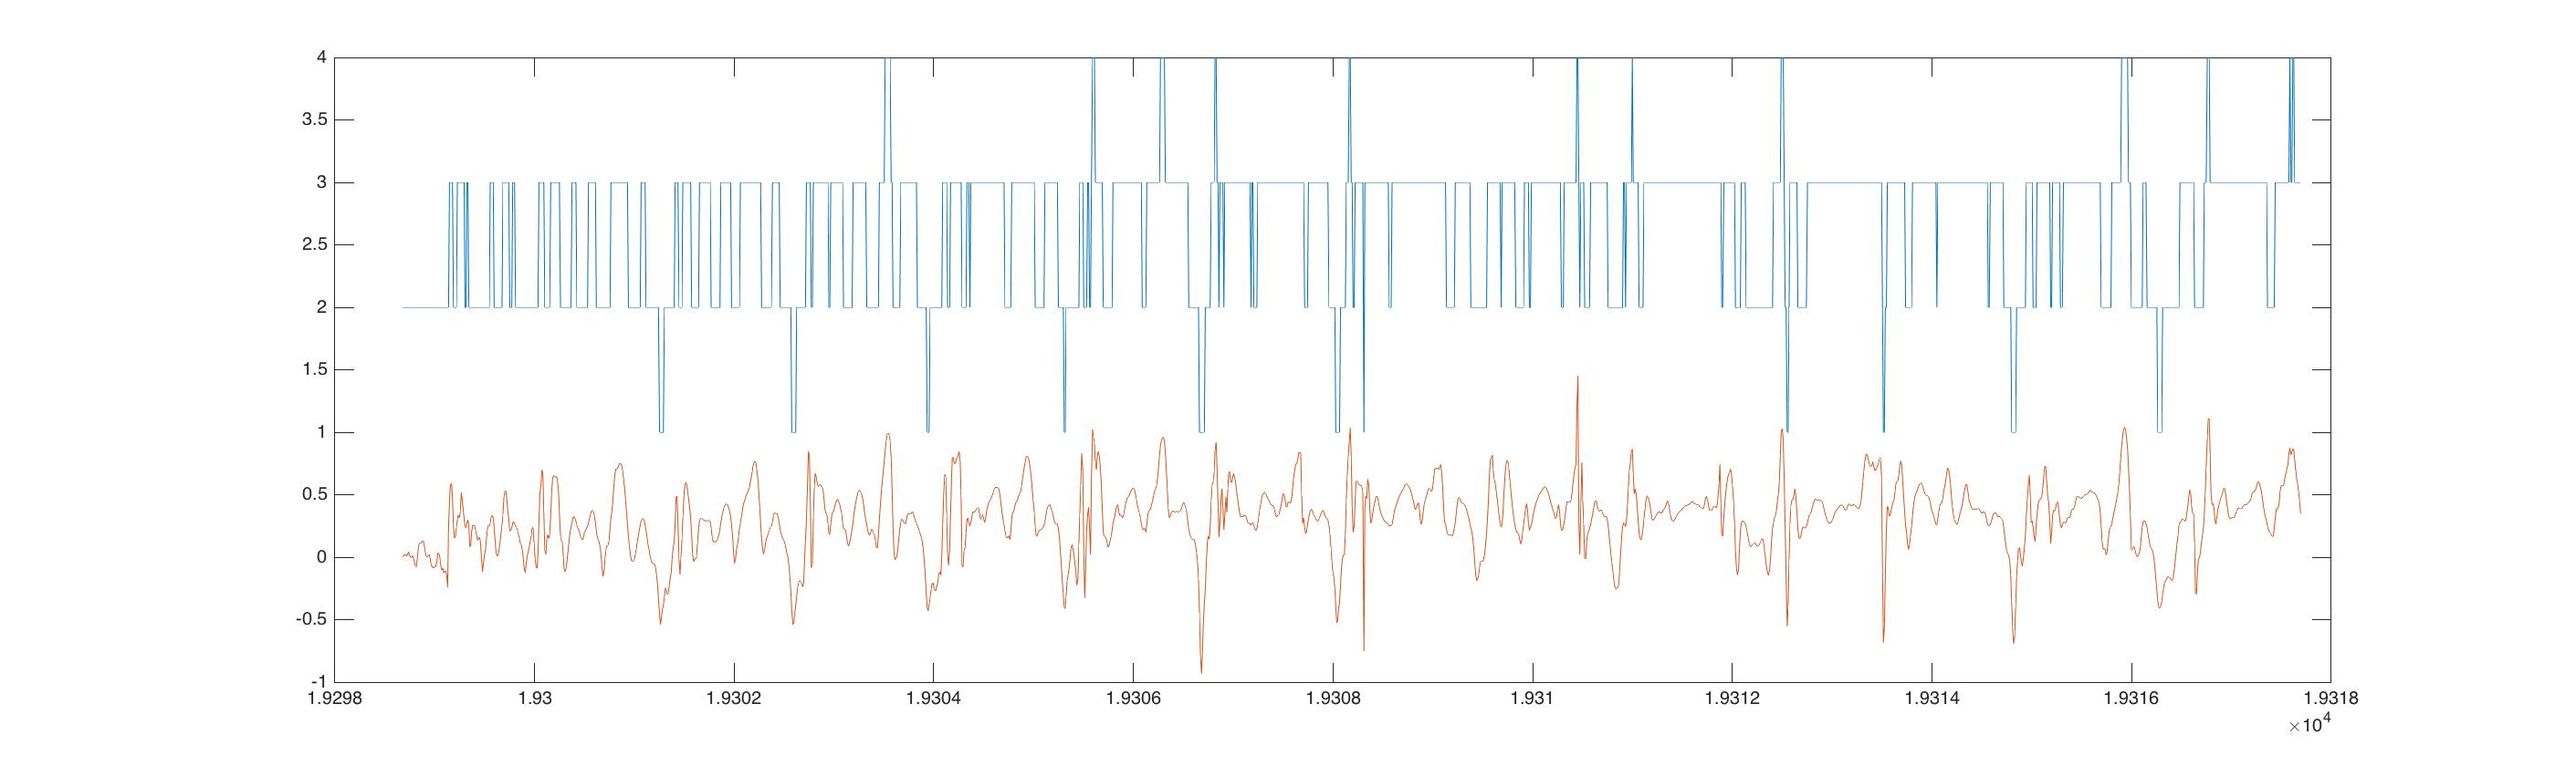
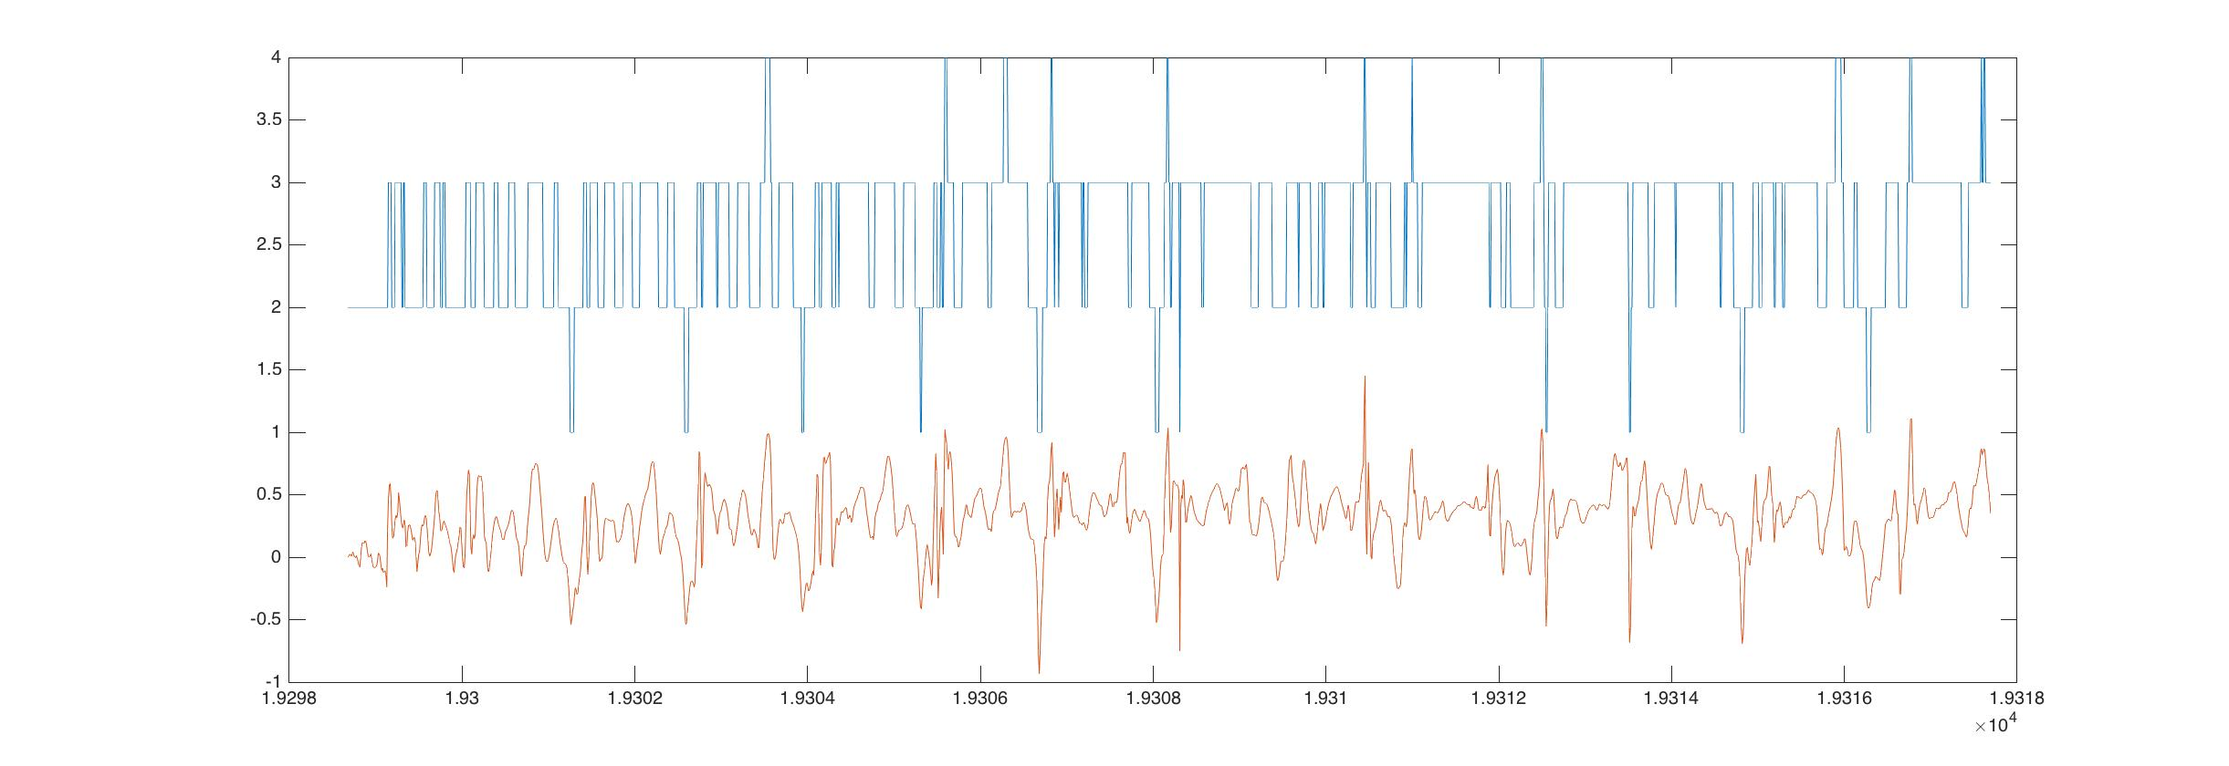
update code

diff --git a/acc_HMM.m b/acc_HMM.m
@@ -21,12 +21,12 @@ pathN = path;
 % loc = 'mocha';
 loc = 'doerlbh';
 
-test_file = 'test_walk_outbound.tmp';
-
 addpath(path);
 addpath([path 'jsonlab-master']);
 % addpath([path 'parameters']);
 % addpath([path 'embeddings']);
+
+test_file = 'test_walk_outbound.tmp';
 
 data = loadjson(test_file,'SimplifyCell',1);
 size = length(data);
@@ -51,7 +51,10 @@ parfor n = 1:size
     s_acc(n) = acc(n,:)*plane1.'/norm(plane1,2);
 end
 
+%% generate observation labels
+
 num_bins = 4;
+
 s_bins = linspace(min(s_acc), max(s_acc), num_bins+1);
 
 parfor t = 1:size
@@ -62,22 +65,62 @@ parfor t = 1:size
     end
 end
 
+%% generate default transition matrix and emission matrix
+
+num_stages = 3;
+default_home_state = 0.95
+
+trGuess = zeros(num_stages,num_stages);
+for j = 1:num_stages
+    trGuess(j,j) = default_home_state;
+    if j == num_stages
+        trGuess(j,1) = 1 - default_home_state;
+    else
+        trGuess(j,j+1) = 1 - default_home_state;
+    end
+end
+
+emitGuess = ones(num_stages,num_bins)/num_bins;
+
+% trGuess =[0.95 0.05 0; 0 0.95 0.05; 0.05 0 0.95];
+% emitGuess = [0.25 0.25 0.25 0.25; 0.25 0.25 0.25 0.25; 0.25 0.25 0.25 0.25];
 
 %% plot obs labels
 
 figure(1);
-plot(time, acc);
-plot(time, s_acc);
+plot(time, acc); hold on
+plot(time, s_acc); hold on
+title(['signal at s = ' num2str(num_stages) ' and b =' num2str(num_bins)]);
+xlabel('t');
+legend('x','y','z','s-acc');
+xc = xlim;
+xl = xc(1)*0.8+xc(2)*0.2;
+yc = ylim;
+yl1 = yc(1)*0.83+yc(2)*0.17;
+yl2 = yc(1)*0.77+yc(2)*0.23;
+% text(xl,yl1,['num stages =' num2str(num_stages)],'FontSize',12);
+% text(xl,yl2,['num bins =' num2str(num_bins)],'FontSize',12);
+filename = ['signal-s-' num2str(num_stages) '-b-' num2str(num_bins) '.png'];
+saveas(gcf, filename,'png');
 
 figure(2);
 plot(time, s_obs); hold on
 plot(time, s_acc); hold on
-
+legend('s-obs','s-acc');
+title(['observation at s = ' num2str(num_stages) ' and b =' num2str(num_bins)]);
+xlabel('t');
+xc = xlim;
+xl = xc(1)*0.8+xc(2)*0.2;
+yc = ylim;
+yl1 = yc(1)*0.83+yc(2)*0.17;
+yl2 = yc(1)*0.77+yc(2)*0.23;
+% text(xl,yl1,['num stages =' num2str(num_stages)],'FontSize',12);
+% text(xl,yl2,['num bins =' num2str(num_bins)],'FontSize',12);
+filename = ['observation-s-' num2str(num_stages) '-b-' num2str(num_bins) '.png'];
+saveas(gcf, filename,'png');
 
 %% train HMM
 
-trGuess =[0.95 0.05 0; 0 0.95 0.05; 0.05 0 0.95]; 
-emitGuess = [0.25 0.25 0.25 0.25; 0.25 0.25 0.25 0.25; 0.25 0.25 0.25 0.25]; 
 [estTr,estEm] = hmmtrain(s_obs,trGuess,emitGuess);
 
 rng(1);
@@ -86,6 +129,19 @@ rng(1);
 figure(3)
 plot(time, s_obs); hold on
 plot(time, s_acc); hold on
-plot(time, states);
+plot(time, states); hold on
+legend('s-obs','s-acc','states');
+title(['prediction at s = ' num2str(num_stages) ' and b =' num2str(num_bins)]);
+xlabel('t');
+xc = xlim;
+xl = xc(1)*0.8+xc(2)*0.2;
+yc = ylim;
+yl1 = yc(1)*0.83+yc(2)*0.17;
+yl2 = yc(1)*0.77+yc(2)*0.23;
+% text(xl,yl1,['num stages =' num2str(num_stages)],'FontSize',12);
+% text(xl,yl2,['num bins =' num2str(num_bins)],'FontSize',12);
+filename = ['prediction-s-' num2str(num_stages) '-b-' num2str(num_bins) '.png'];
+saveas(gcf, filename,'png');
 
-% plot();
+end
+
